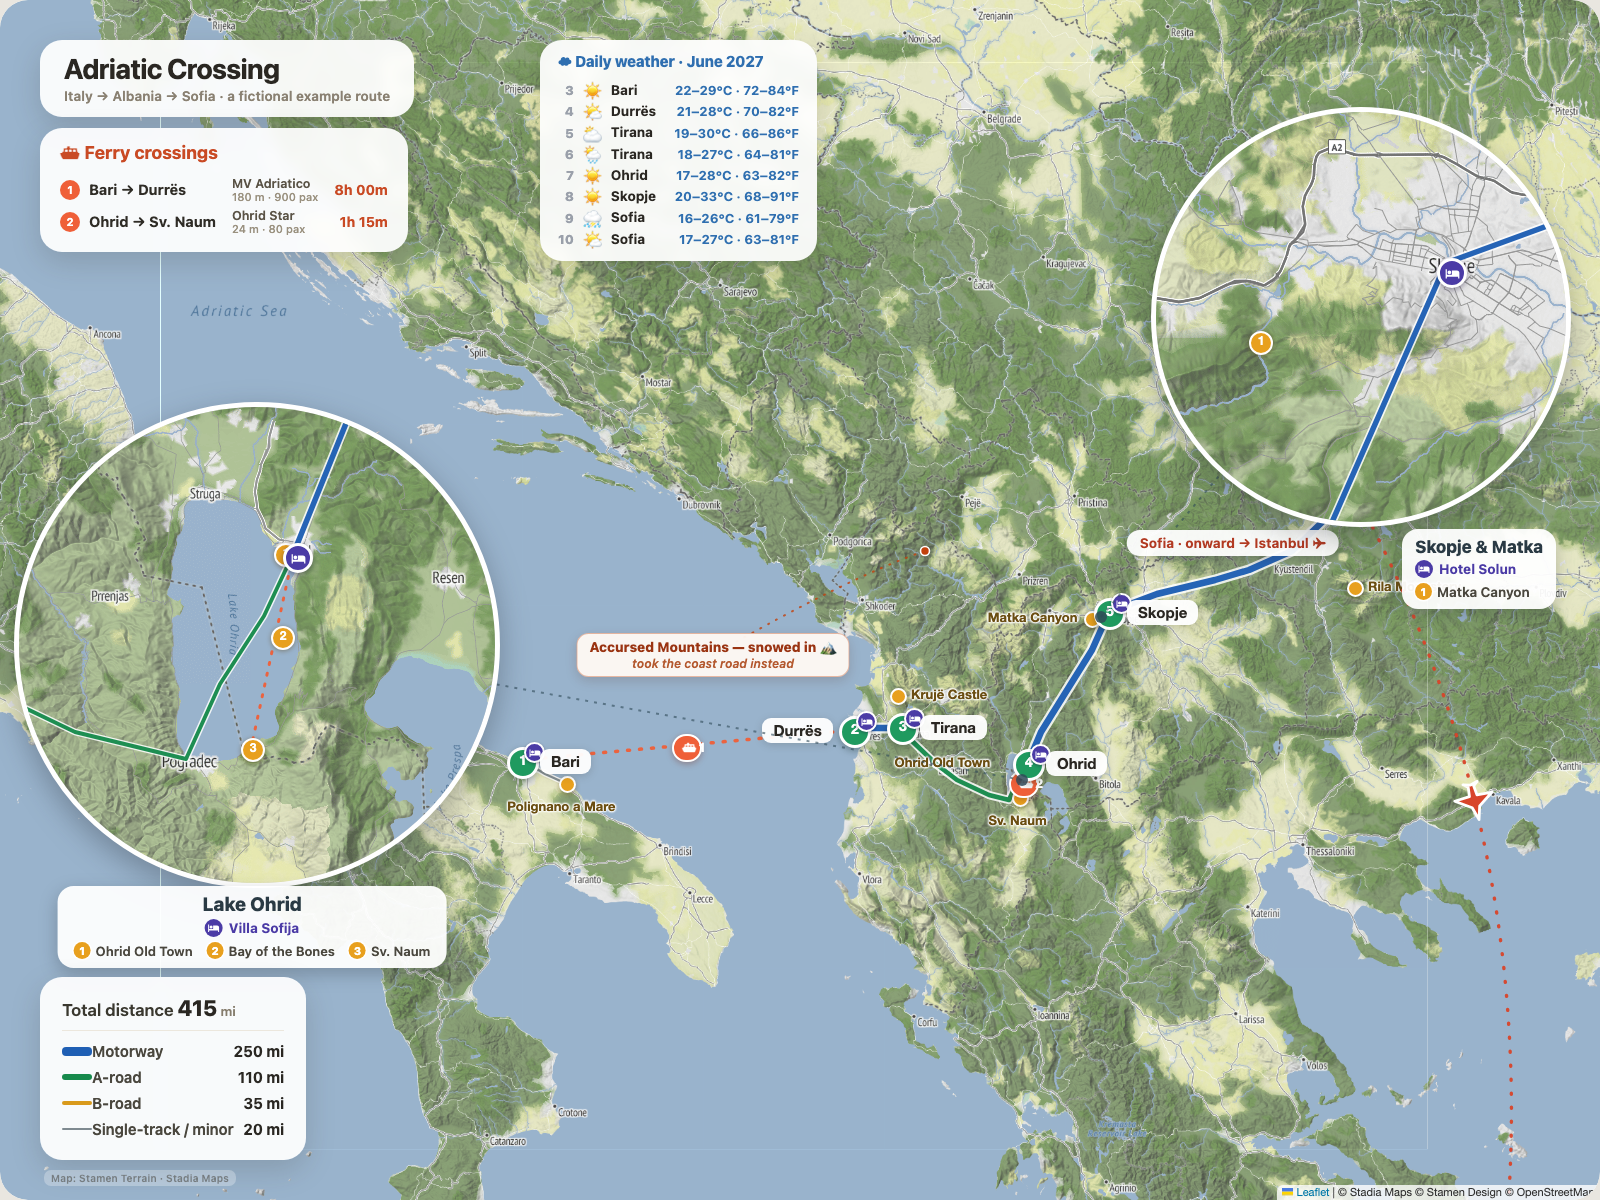
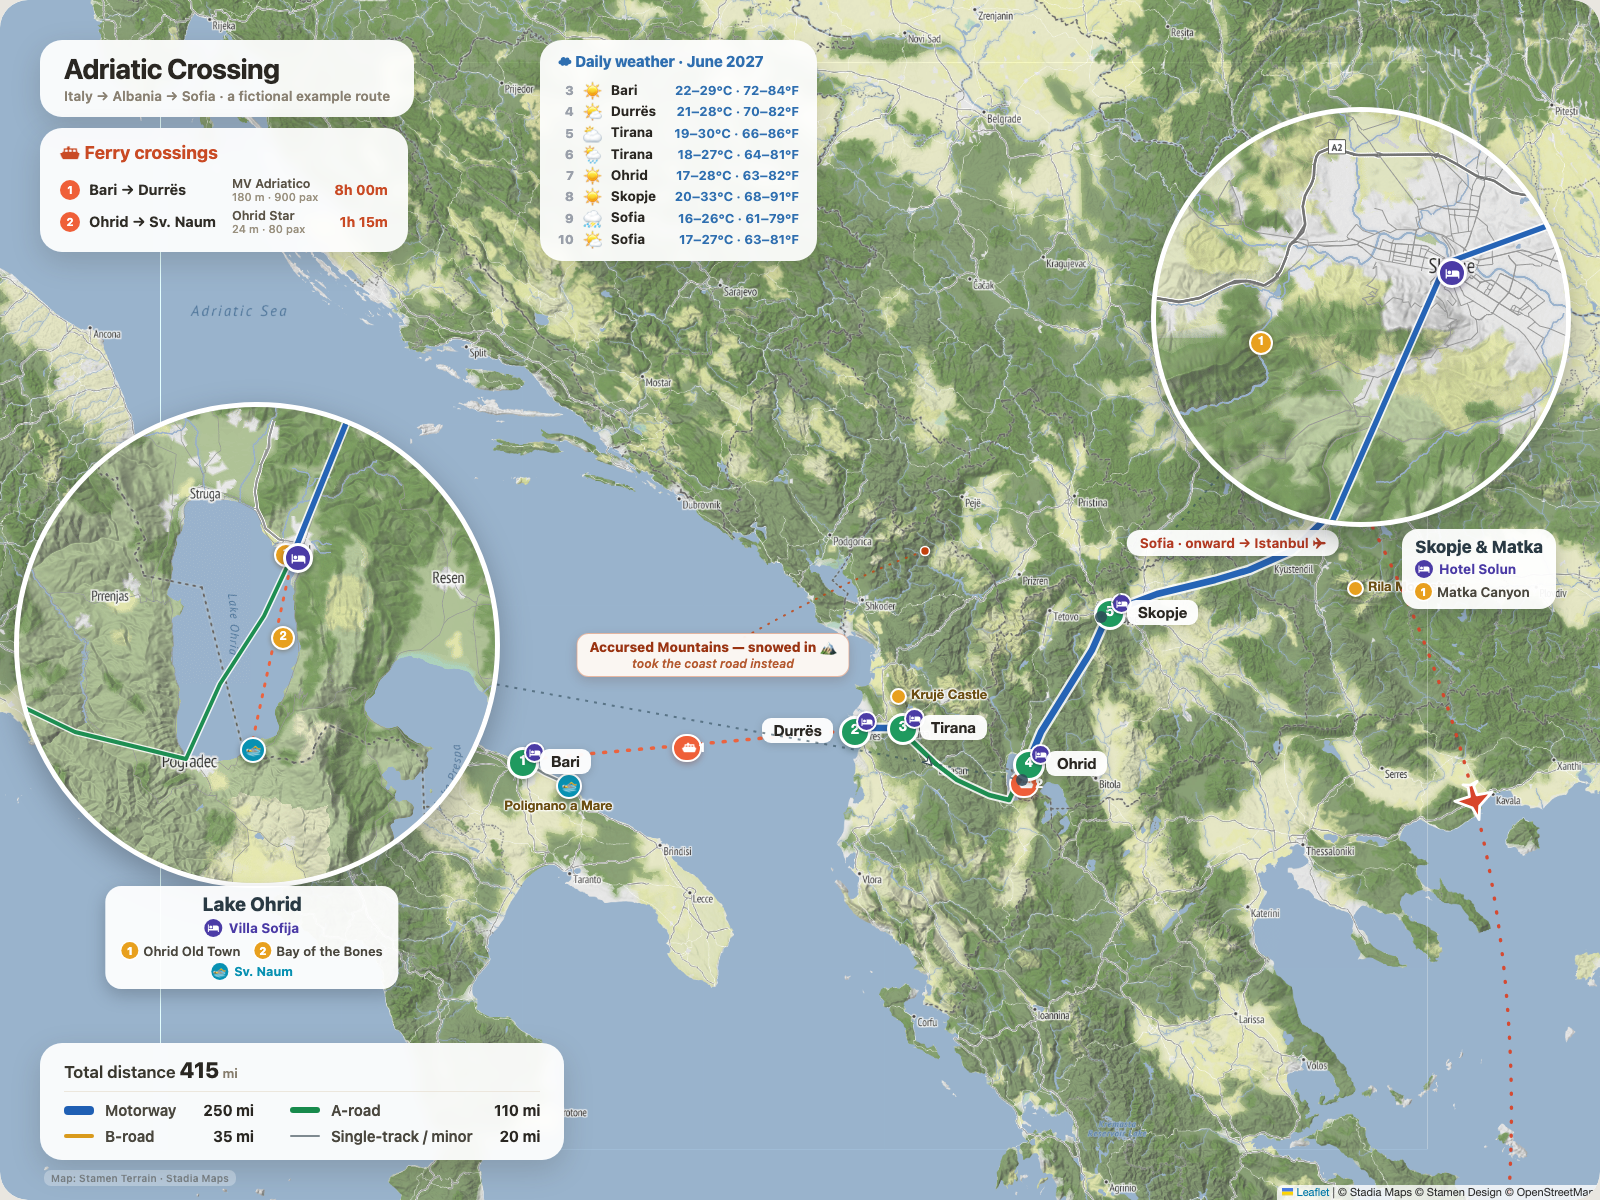
Integrate POI categories, auto-declutter & wide legend (from #8)
Ports the real-trip wins from PR #8 (branch port-real-trip-features) onto current
main, resolving conflicts against the work merged since it was branched:

- POI categories — schema `poiKinds` + `pois[].kind`; tagged sights get a
  coloured/emoji marker (main map + blow-ups) and a caption line. Example: swim 🏊
  on Polignano a Mare & Sv. Naum.
- Auto-declutter — a POI shown inside a blow-up inset is no longer redrawn on the
  main map (inBubble filter in JourneyMap.svelte).
- Wide two-column distance legend on the poster.

Kept main's researched ROADMAP over the incoming one and refreshed it (+ README)
to check off everything shipped this session. Re-rendered the four hero images
from the updated example; rebuilt journey.json. All trips validate (Node + Go)
and pass trip-doctor; static build + poster render verified.

Assisted-by: Altovarelia <altovarelia@users.noreply.github.com>

diff --git a/src/lib/JourneyMap.svelte b/src/lib/JourneyMap.svelte
@@ -137,7 +137,12 @@
     for (const { p } of ferryPix) obstacles.push({ x: p.x - 18, y: p.y - 13, w: 36, h: 26 });
     const stayPix = data.stays.map((s, i) => ({ s, i, p: pt(s.lat, s.lon) }));
     for (const { p } of stayPix) obstacles.push({ x: p.x - 15, y: p.y - 15, w: 30, h: 30 });
-    const poiPix = data.pois.map((s) => ({ s, p: pt(s.lat, s.lon) }));
+    // optional POI categories: data.poiKinds[kind] = { color, emoji } → distinct marker
+    const KINDS = data.poiKinds || {};
+    const kindDot = (k, cls) => `<div class="${cls}" style="background:${(KINDS[k] || {}).color || '#8a5a8f'}">${(KINDS[k] || {}).emoji || ''}</div>`;
+    // a POI shown inside a blow-up bubble is NOT drawn again on the main map (declutter)
+    const inBubble = (s) => INSETS.some((ins) => dkm([s.lat, s.lon], ins.center) < ins.poiKm);
+    const poiPix = data.pois.filter((s) => !inBubble(s)).map((s) => ({ s, p: pt(s.lat, s.lon) }));
     for (const { p } of poiPix) obstacles.push({ x: p.x - 9, y: p.y - 9, w: 18, h: 18 });
 
     for (const { f } of ferryPix) {
@@ -153,15 +158,17 @@
         icon: L.divIcon({ className: '', iconSize: [30, 30], iconAnchor: [15, 15],
           html: `<div class="stay-pin">${i + 1}<span class="hotel-badge">${BED}</span></div><div class="pin-label town ${ra}" style="left:${dx}px;top:${dy}px"><b>${s.area}</b></div>` }) }).addTo(map);
     }
-    // POIs: dot ALWAYS shown; label only when it fits (no overlap, no clutter)
+    // POIs: dot ALWAYS shown; label only when it fits (no overlap, no clutter).
+    // A POI with a `kind` gets its category marker instead of the plain dot.
     for (const { s, p } of poiPix) {
+      const k = s.kind && KINDS[s.kind];
       const w = s.name.length * 7.1 + 6, h = 22;
-      const r = place(p.x, p.y, w, h, 13);
-      let html = `<div class="poi-dot"></div>`;
+      const r = place(p.x, p.y, w, h, k ? 15 : 13);
+      let html = k ? kindDot(s.kind, 'kind-dot') : `<div class="poi-dot"></div>`;
       if (r) { obstacles.push(r); const dx = r.x - (p.x - 8), dy = r.y - (p.y - 8), ra = r.x + r.w / 2 < p.x ? 'ra' : '';
         html += `<div class="poi-label ${ra}" style="left:${dx}px;top:${dy}px">${s.name}</div>`; }
-      L.marker([s.lat, s.lon], { interactive: false, zIndexOffset: 300,
-        icon: L.divIcon({ className: '', iconSize: [16, 16], iconAnchor: [8, 8], html }) }).addTo(map);
+      L.marker([s.lat, s.lon], { interactive: false, zIndexOffset: k ? 320 : 300,
+        icon: L.divIcon({ className: '', iconSize: k ? [22, 22] : [16, 16], iconAnchor: k ? [11, 11] : [8, 8], html }) }).addTo(map);
     }
 
     // ---------- enlarged blow-up insets ----------
@@ -198,18 +205,26 @@
         // hotels (overnight bases) — bed icon
         for (const s of data.stays) L.marker([s.lat, s.lon], { interactive: false, zIndexOffset: 600,
           icon: L.divIcon({ className: '', iconSize: [24, 24], iconAnchor: [12, 12], html: `<div class="mini-hotel">${BED}</div>` }) }).addTo(im);
-        // orange sight POIs — numbered where they belong to this blow-up
-        const near = data.pois.filter((p) => dkm([p.lat, p.lon], ins.center) < ins.poiKm);
+        // sight POIs — numbered where they belong to this blow-up; category POIs get their marker
+        const near = data.pois.filter((p) => !p.kind && dkm([p.lat, p.lon], ins.center) < ins.poiKm);
         const numOf = new Map(near.map((p, i) => [p.name, i + 1]));
         for (const p of data.pois) {
+          if (p.kind && KINDS[p.kind]) {
+            L.marker([p.lat, p.lon], { interactive: false, zIndexOffset: 560,
+              icon: L.divIcon({ className: '', iconSize: [22, 22], iconAnchor: [11, 11], html: kindDot(p.kind, 'mini-kind') }) }).addTo(im);
+            continue;
+          }
           const n = numOf.get(p.name);
           L.marker([p.lat, p.lon], { interactive: false, zIndexOffset: n ? 550 : 500,
             icon: L.divIcon({ className: '', iconSize: n ? [20, 20] : [12, 12], iconAnchor: n ? [10, 10] : [6, 6],
               html: n ? `<div class="mini-num">${n}</div>` : `<div class="mini-poi"></div>` }) }).addTo(im);
         }
 
-        // caption card: title + hotel(s) + numbered key of the orange POIs
+        // caption card: title + hotel(s) + numbered key of the sights + any category lines
         const hotelsNear = data.stays.filter((s) => s.hotel && dkm([s.lat, s.lon], ins.center) < ins.poiKm);
+        const kindsNear = {};
+        for (const p of data.pois)
+          if (p.kind && KINDS[p.kind] && dkm([p.lat, p.lon], ins.center) < ins.poiKm) (kindsNear[p.kind] ||= []).push(p.name);
         const vert = ins.capMode === 'vert';
         const panel = document.createElement('div');
         panel.className = vert ? 'bubble-cap vert' : 'bubble-cap';
@@ -219,7 +234,9 @@
         panel.innerHTML =
           `<div class="bubble-title">${ins.title}</div>` +
           (hotelsNear.length ? `<div class="bubble-hotels"><span class="bed">${BED}</span>${hotelsNear.map((s) => s.hotel).join(' &middot; ')}</div>` : '') +
-          (near.length ? `<div class="bubble-pois">${near.map((p, i) => `<span><i>${i + 1}</i>${p.name}</span>`).join('')}</div>` : '');
+          (near.length ? `<div class="bubble-pois">${near.map((p, i) => `<span><i>${i + 1}</i>${p.name}</span>`).join('')}</div>` : '') +
+          Object.entries(kindsNear).map(([k, names]) =>
+            `<div class="bubble-kind" style="color:${KINDS[k].color}"><span class="kg" style="background:${KINDS[k].color}">${KINDS[k].emoji}</span>${names.join(' &middot; ')}</div>`).join('');
         parent.appendChild(panel);
       }
     }
@@ -345,4 +362,10 @@
   :global(.mini-hotel svg) { width: 15px; height: 15px; fill: #fff; }
   :global(.mini-num) { width: 20px; height: 20px; border-radius: 50%; background: #e8a01e; color: #fff; border: 2.5px solid #fff; box-shadow: 0 1px 5px rgba(90,60,10,.45); font-size: 12px; font-weight: 800; line-height: 15px; text-align: center; }
   :global(.mini-poi) { width: 10px; height: 10px; border-radius: 50%; background: #e8a01e; border: 2.5px solid #fff; box-shadow: 0 1px 4px rgba(90,60,10,.4); }
+
+  /* optional POI categories (data.poiKinds) — coloured marker with an emoji */
+  :global(.kind-dot), :global(.mini-kind) { width: 22px; height: 22px; border-radius: 50%; border: 2.5px solid #fff; box-shadow: 0 2px 6px rgba(40,40,40,.4); display: flex; align-items: center; justify-content: center; font-size: 12px; line-height: 1; }
+  :global(.bubble-kind) { margin-top: 4px; display: flex; align-items: center; justify-content: center; gap: 6px; font-family: -apple-system, BlinkMacSystemFont, 'SF Pro Display', 'Inter', sans-serif; font-size: 12.5px; font-weight: 700; }
+  :global(.bubble-cap.vert .bubble-kind) { justify-content: flex-start; }
+  :global(.bubble-kind .kg) { display: inline-flex; width: 17px; height: 17px; border-radius: 50%; align-items: center; justify-content: center; flex: none; font-size: 10px; }
 </style>

diff --git a/src/routes/+page.svelte b/src/routes/+page.svelte
@@ -73,18 +73,18 @@
     </div>
     {/if}
 
-    <!-- distance + road-class legend -->
+    <!-- distance + road-class legend — wide, two columns -->
     <div class="overlay legend-card">
       <div class="legtitle">Total distance <b>{data.totalMiles.toLocaleString()}</b></div>
-      <table class="roads"><tbody>
+      <div class="roads-grid">
         {#each data.roadStats as r}
-          <tr>
-            <td><span class="rl {r.cls}" style="background:{pal[r.cls]}"></span></td>
-            <td class="rlbl">{r.label}</td>
-            <td class="rmi">{r.mi} mi</td>
-          </tr>
+          <div class="rrow">
+            <span class="rl {r.cls}" style="background:{pal[r.cls]}"></span>
+            <span class="rlbl">{r.label}</span>
+            <span class="rmi">{r.mi} mi</span>
+          </div>
         {/each}
-      </tbody></table>
+      </div>
     </div>
 
     <!-- tiny map credit -->
@@ -128,19 +128,19 @@
   .fv i { display: block; font-style: normal; font-size: 11px; font-weight: 500; color: #9a917f; }
   .ft { font-size: 14px; font-weight: 700; color: #c94a24; text-align: right; white-space: nowrap; }
 
-  .legend-card { bottom: 40px; left: 40px; padding: 18px 22px; }
-  .legtitle { font-size: 17px; font-weight: 600; color: #3a382f; padding-bottom: 9px; margin-bottom: 7px; border-bottom: 1px solid #ece7dd; }
+  .legend-card { bottom: 40px; left: 40px; padding: 14px 24px 15px; }
+  .legtitle { font-size: 17px; font-weight: 600; color: #3a382f; padding-bottom: 8px; margin-bottom: 9px; border-bottom: 1px solid #ece7dd; }
   .legtitle b { font-size: 22px; font-weight: 800; color: #2a2722; }
   .legtitle b::after { content: ' mi'; font-size: 13px; font-weight: 600; color: #857c6c; }
-  .roads { border-collapse: collapse; }
-  .roads td { padding: 4px 0; vertical-align: middle; }
-  .rl { display: block; width: 30px; border-radius: 4px; }
+  .roads-grid { display: grid; grid-template-columns: auto auto; gap: 8px 36px; }
+  .rrow { display: flex; align-items: center; gap: 11px; }
+  .rl { display: block; width: 30px; border-radius: 4px; flex: none; }
   .rl.motorway { height: 9px; }
   .rl.a { height: 6px; }
   .rl.b { height: 4px; }
   .rl.minor { height: 2.5px; }
-  .rlbl { font-size: 15px; font-weight: 600; color: #4a473e; padding: 0 20px 0 12px; }
-  .rmi { font-size: 15px; font-weight: 700; color: #2a2722; text-align: right; padding-right: 18px; }
+  .rlbl { font-size: 15px; font-weight: 600; color: #4a473e; }
+  .rmi { font-size: 15px; font-weight: 700; color: #2a2722; margin-left: auto; padding-left: 16px; white-space: nowrap; }
 
   .map-credit {
     position: absolute; z-index: 500; left: 44px; bottom: 14px;

diff --git a/ROADMAP.md b/ROADMAP.md
@@ -9,55 +9,69 @@ forward are welcome; grab one and open an issue to claim it.
 
 ---
 
-## Where we are today ✅
+## Shipped ✅
 
+**Core pipeline**
 - **YAML/JSON → validated → poster PNG.** `build-trip.mjs` compiles a trip against
   [`schema/journey.schema.json`](schema/journey.schema.json) into `src/lib/journey.json`;
   `render.mjs` drives headless Chromium and screenshots the fixed 1600×1200 `#journey-card`.
 - **15 basemaps, 4 road palettes,** with graceful Stadia-key fallback to keyless look-alikes.
-- **Helper scripts:** `fetch-weather.mjs` (Open-Meteo archive), `verify-gps.mjs` (CSV track truth-check).
-- **11 starter trips** in [`trips/`](trips/), each rendered into the README gallery.
-- **Interactive `/trip` web UI + 4 themes + static build** — landing via PR #1 (Daylight ·
-  Night · Vintage · Minimal, persisted, system light/dark aware).
+- **Native Go CLI** ([`cli-go/`](cli-go/)) — `validate`, `doctor`, and `build`, the last
+  **byte-for-byte identical** to `build-trip.mjs`. A browser-free companion for the pure commands.
+
+**Rendering & authoring tooling**
+- **Multi-trip render, no collisions** — `npm run render:all` builds + renders every `trips/*.yaml`
+  to `output/samples/` with per-trip names; single `render` now **starts/stops Vite itself**
+  (no second terminal) and takes `--out`.
+- **Trip-doctor** (`npm run doctor`) — plausibility lint beyond schema: coordinate ranges,
+  likely-swapped lat/lon, `totalMiles` vs summed `roadStats`, drive classes vs legend,
+  degenerate ferries, insets off the 1600×1200 canvas.
+- **CI on every PR** — schema-validate every trip, run the doctor, build the static site, and
+  build the Go CLI + diff its `build` output against Node.
+
+**Map features**
+- **POI categories** (`poiKinds` + `pois[].kind`) — tagged sights get a coloured/emoji marker
+  and a caption line.
+- **Auto-declutter** — a POI shown inside a blow-up inset is not redrawn on the main map.
+- **Wide two-column distance legend.**
+- **Elevation profiles** — `fetch-elevation.mjs` (keyless Open-Meteo) → `elevation[]`; an
+  interactive area chart (peak, climb, crosshair tooltip) on `/trip`.
+
+**Import & data helpers**
+- **GPX / KML import** (`npm run gpx`) — a recorded track → paste-ready `drives[]` fragment.
+- **Real weather** (`fetch-weather.mjs`) and **GPS truth-check** (`verify-gps.mjs`).
+
+**Web experience**
+- **Interactive `/trip`** — big Leaflet map, itinerary, sights, ferries, weather grid, road
+  breakdown, elevation chart.
+- **`/gallery`** — a themed card grid of every trip with rendered thumbnails.
+- **Four curated themes** (Daylight · Night · Vintage · Minimal), persisted, system-aware,
+  **no theme flash** (pre-paint), with keyless-Stadia labelling in the basemap picker.
+- **Static build** — `npm run build` prerenders `/`, `/trip` and `/gallery` via `adapter-static`.
 
 ---
 
-## Near-term 🔭 — remove the sharp edges
+## Near-term 🔭 — natural next steps
 
-These target friction that exists *right now* in the pipeline.
-
-- **Multi-trip build & render, no collisions.** Today `build-trip.mjs` always writes the one
-  `src/lib/journey.json` and `render.mjs` always writes `output/journey-<style>.png`, so
-  rendering the whole `trips/` folder means a manual build→render→rename loop (we hit exactly
-  this producing the README gallery). Add `render.mjs --trip <file> --out <name>` and a
-  `render:all` that walks `trips/*.yaml` and names outputs per-trip automatically.
-- **One-command render.** `render.mjs` requires the dev server already running in another
-  terminal. Have it spawn/`await` a `vite preview` (or a static server on `build/`) itself, so
-  `npm run render` works from a clean checkout with no second terminal.
-- **CI on every PR.** There is no `.github/` yet. Add a GitHub Action that (a) validates every
-  `trips/*.yaml` against the schema, (b) runs `npm run build`, and (c) optionally renders one
-  trip headless as a smoke test. Fail the PR on a bad coordinate or schema drift.
-- **A schema-lint / trip-doctor script.** Beyond raw JSON-Schema validation, warn on
-  *plausible-but-wrong* data: stays/POIs in the sea, ferry endpoints on land, `totalMiles`
-  far from the summed `roadStats`, insets whose pixel circle falls off the 1600×1200 canvas.
-- **Multi-trip gallery / index page.** Build every file in `trips/` into a static index that
-  lists all journeys with thumbnails, linking to each `/trip` page.
+- **Elevation on the poster too.** The profile is `/trip`-only today; add it to the 1600×1200
+  poster (a corner sparkline or a slim strip under the legend).
+- **Deep-linkable + exportable web UI.** `?theme=&style=&roads=` URL state and a "Download
+  poster PNG" button that reuses the render path.
+- **Weather, wired in.** Let `build-trip` optionally call `fetch-weather` and populate
+  `weather[]` from `stays[]` dates + coordinates automatically (same pattern as elevation).
+- **Finish the Go CLI.** Port `gpx-import` and `fetch-elevation` so the native binary matches
+  the Node scripts end-to-end.
+- **Accessibility pass.** Keyboard-navigable map controls, focus states, alt text,
+  reduced-motion, and a WCAG-AA contrast check across all four themes.
 
 ## Mid-term 🔭 — less hand-authoring
 
-The biggest authoring cost is hand-typing `drives[].segs[].line[]` coordinate lists.
+The biggest remaining authoring cost is hand-typing `drives[].segs[].line[]` coordinate lists.
 
-- **GPX / KML import.** `verify-gps.mjs` already reads a CSV track; extend the family to turn a
-  recorded GPX/KML directly into `drives[]` (with `verify-gps` confirming stays/POIs were real).
 - **Auto-routing + road classification.** Optional script to snap stop-to-stop legs to real
   roads and infer `cls` (motorway/a/b/minor) instead of drawing polylines by hand.
-- **Weather, wired in.** `fetch-weather.mjs` prints a paste-ready array today; let `build-trip`
-  optionally call it and populate `weather[]` from `stays[]` dates + coordinates automatically.
-- **Deep-linkable + exportable web UI.** `?theme=&style=&roads=` URL state and a "Download
-  poster PNG" button that reuses the existing render path.
-- **Accessibility pass.** Keyboard-navigable map controls, focus states, alt text,
-  reduced-motion, and a WCAG-AA contrast check across all four themes.
 - **Units & i18n.** mi/km and °C/°F toggles; localizable UI strings.
+- **Elevation-aware extras.** Per-leg climb/descent, steepest-grade callouts.
 
 ## Long-term 💡 — bigger bets
 
@@ -67,7 +81,6 @@ The biggest authoring cost is hand-typing `drives[].segs[].line[]` coordinate li
   beyond the single poster.
 - **Geotagged-photo integration.** Drop photos on the map; auto-place as POIs from EXIF GPS.
 - **Pluggable basemaps.** A tile-provider registry so a new basemap is config, not a code edit.
-- **Elevation profile** section under the map for drives with elevation data.
 
 ---
 

diff --git a/README.md b/README.md
@@ -39,8 +39,8 @@
 - 🛣 the **driving route**, coloured and sized by road class (motorway → single-track)
 - ⛴ **ferry crossings** as dashed sea-legs, numbered and listed in a table
 - 🛏 **overnight stays** as numbered pins with a hotel badge (+ the hotel name in blow-ups)
-- 📍 **sights / POIs** that auto-label only where they fit (no clutter)
-- 🔍 **magnified blow-up insets** for fiddly island/city detail, with a numbered key
+- 📍 **sights / POIs** that auto-label only where they fit — with optional **categories** (give a set of POIs their own colour + emoji marker)
+- 🔍 **magnified blow-up insets** for fiddly island/city detail, with a numbered key; anything shown in a blow-up is **not repeated** on the main map (auto-declutter)
 - 🌦 a **daily weather** table (fetch real history from [Open-Meteo](https://open-meteo.com/))
 - ✍ an optional **hand-note callout** and an **"onward journey"** tag that arcs off the edge
 - 🧭 direction-of-travel chevrons, a distance legend, and a tiny basemap credit
@@ -163,7 +163,8 @@ inline docs** in VS Code (the example's `$schema` key wires it up automatically)
 | `title`, `subtitle` | headline + one-liner under it |
 | `totalMiles` | number shown in the distance legend |
 | `stays[]` | `{ area, hotel, lat, lon, dates }` — numbered pins, in trip order |
-| `pois[]` | `{ name, lat, lon }` — auto-labelled sights |
+| `pois[]` | `{ name, lat, lon, kind? }` — auto-labelled sights; `kind` references `poiKinds` |
+| `poiKinds` | optional categories: `{ swim: { color, emoji } }` — tagged POIs get that marker + a caption line |
 | `ferries[]` | `{ num, short, vessel, size, dur, a:[lat,lon], b:[lat,lon] }` |
 | `drives[]` | `{ label, segs:[{ cls, line:[[lat,lon]…] }] }` — `cls` ∈ `motorway \| a \| b \| minor` |
 | `roadStats[]` | `{ cls, label, mi }` legend rows |
@@ -284,6 +285,12 @@ Maps / Stamen Design). Weather from [Open-Meteo](https://open-meteo.com/). Built
 [SvelteKit](https://kit.svelte.dev/), [Leaflet](https://leafletjs.com/) and
 [Playwright](https://playwright.dev/). Respect each tile provider's usage policy for anything beyond
 personal renders.
+
+## Where this is going
+
+The bigger picture is a **files-in, map-out pipeline**: drop in geotagged photos, a GPX track and an
+itinerary spreadsheet, and get the finished website + posters with no manual coordinate work. The
+render half exists today; the input adapters are next — see **[ROADMAP.md](ROADMAP.md)**.
 
 ## License
 
